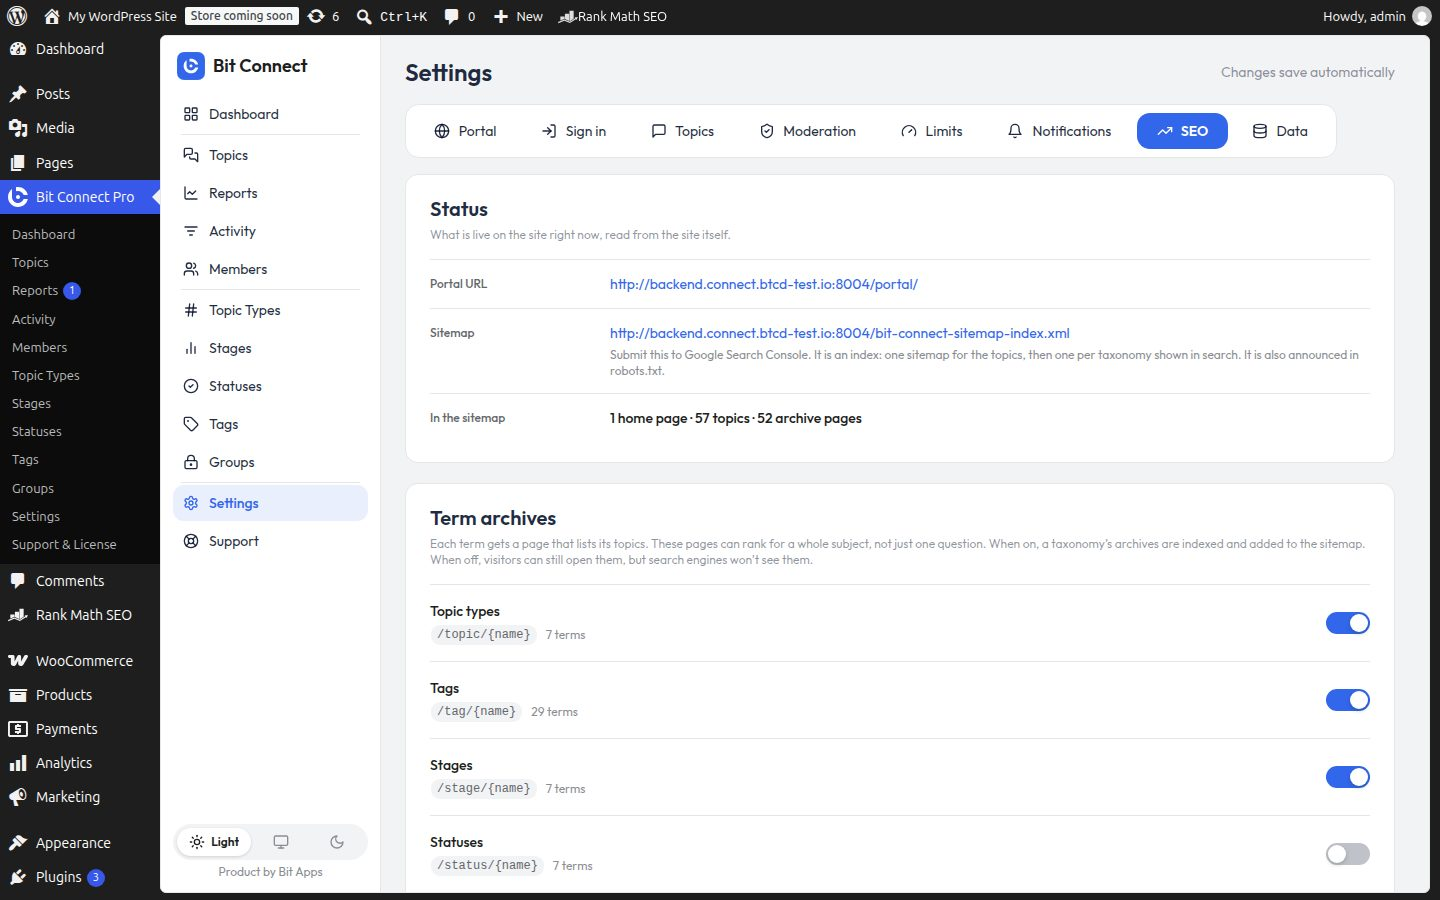
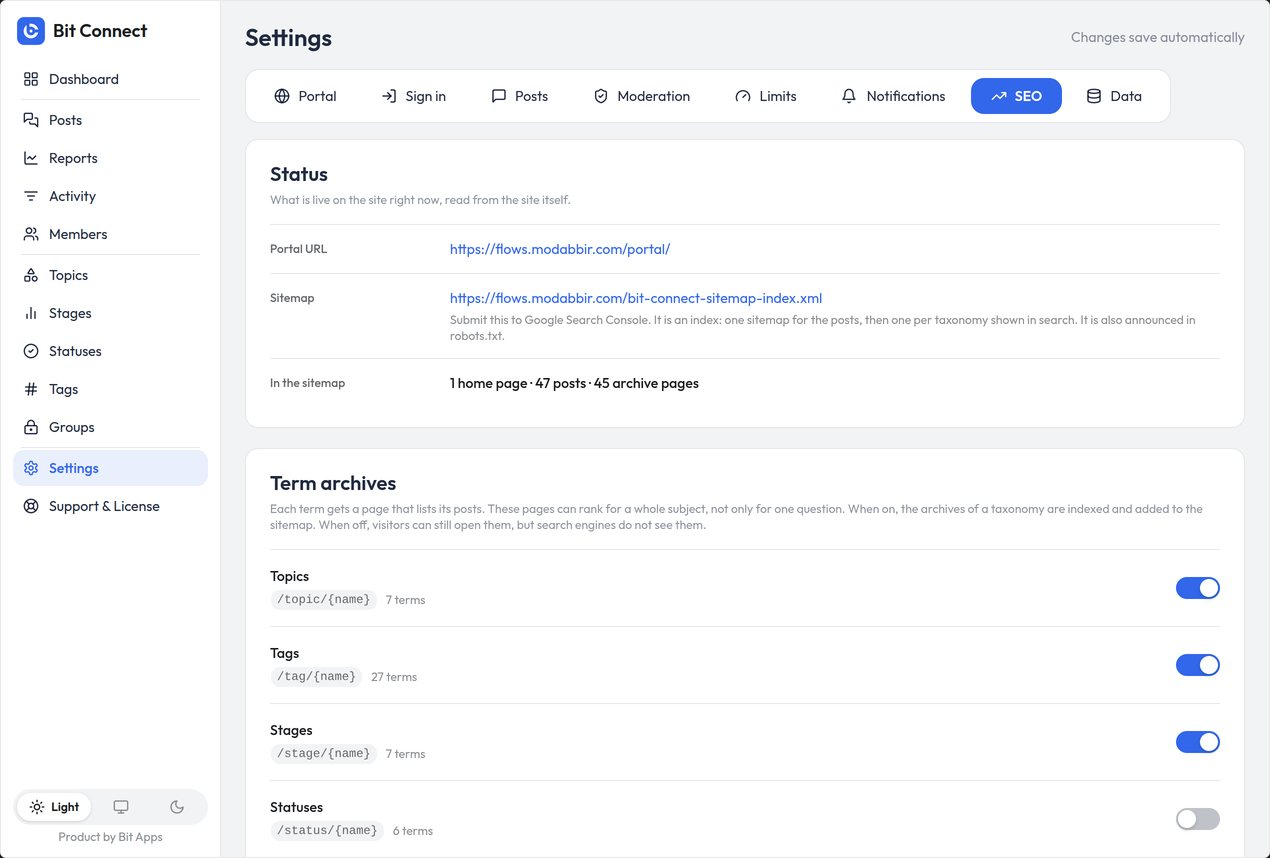
docs: update the guide to 1.0.6 and retake all 28 screenshots from the demo site

diff --git a/index.html b/index.html
@@ -209,7 +209,7 @@ footer{margin-top:72px;padding-top:20px;border-top:1px solid var(--line);color:v
       Bit Connect
     </div>
     <div class="top-right">
-      <div class="ver">Free + Pro · v1.0.2</div>
+      <div class="ver">Free + Pro · v1.0.6</div>
       <div class="theme" role="group" aria-label="Colour theme">
         <button type="button" id="th-light" data-t="light" aria-pressed="true" title="Light mode"><svg viewBox="0 0 24 24" fill="none" stroke="currentColor" stroke-width="2" stroke-linecap="round"><circle cx="12" cy="12" r="4"/><path d="M12 2v2M12 20v2M4.9 4.9l1.4 1.4M17.7 17.7l1.4 1.4M2 12h2M20 12h2M4.9 19.1l1.4-1.4M17.7 6.3l1.4-1.4"/></svg><span>Light</span></button>
         <button type="button" id="th-system" data-t="system" aria-pressed="false" title="Match my device"><svg viewBox="0 0 24 24" fill="none" stroke="currentColor" stroke-width="2" stroke-linecap="round"><rect x="3" y="4" width="18" height="12" rx="2"/><path d="M8 20h8M12 16v4"/></svg><span>Auto</span></button>
@@ -267,14 +267,14 @@ footer{margin-top:72px;padding-top:20px;border-top:1px solid var(--line);color:v
             <figcaption><b>Member profile <span class="pill free">Free</span></b><span class="d">Activity insights, top posts and a breakdown by topic.</span></figcaption></figure>
           <figure class="shot tall"><button type="button" data-full="shots/portal-mobile.jpg" aria-label="Enlarge: mobile view"><img src="shots/portal-mobile.jpg" alt="The community post list on a phone" loading="lazy"></button>
             <figcaption><b>On a phone <span class="pill free">Free</span></b><span class="d">The whole portal works on small screens.</span></figcaption></figure>
-          <figure class="shot"><button type="button" data-full="shots/portal-create-topic.jpg" aria-label="Enlarge: New post form"><img src="shots/portal-create-topic.jpg" alt="New post form with group picker, Make private checkbox, title, topic, rich text editor, Add a poll, tags and Add Files" loading="lazy"></button>
-            <figcaption><b>New post form <span class="pill pro">Pro</span></b><span class="d">Pick where to post, mark it private, add a poll, files and tags. Free shows the same form without the group picker, private switch and polls.</span></figcaption></figure>
+          <figure class="shot"><button type="button" data-full="shots/portal-create-topic.jpg" aria-label="Enlarge: New post form"><img src="shots/portal-create-topic.jpg" alt="Create New Post form with Make private checkbox, title, topic, rich text editor, Add a poll and tags" loading="lazy"></button>
+            <figcaption><b>New post form <span class="pill pro">Pro</span></b><span class="d">Mark the post private, add a poll, files and tags. A member who can post in a group also picks where to post. Free shows the same form without the private switch, polls and group picker.</span></figcaption></figure>
           <figure class="shot"><button type="button" data-full="shots/portal-tag.jpg" aria-label="Enlarge: Tag page"><img src="shots/portal-tag.jpg" alt="Automation tag page listing its posts with a Follow tag button" loading="lazy"></button>
             <figcaption><b>Tag page <span class="pill free">Free</span></b><span class="d">Every tag has its own page with a Follow tag button, topic filters and a search that looks only in that tag.</span></figcaption></figure>
           <figure class="shot"><button type="button" data-full="shots/portal-login.jpg" aria-label="Enlarge: Login page"><img src="shots/portal-login.jpg" alt="Built-in login page with illustration and sign-in form" loading="lazy"></button>
             <figcaption><b>Login page <span class="pill free">Free</span></b><span class="d">Your community name and welcome text beside the sign-in form, with Forgot password and Remember me.</span></figcaption></figure>
-          <figure class="shot"><button type="button" data-full="shots/portal-register.jpg" aria-label="Enlarge: Registration closed"><img src="shots/portal-register.jpg" alt="Registration is closed message on the sign-up page" loading="lazy"></button>
-            <figcaption><b>Registration closed <span class="pill free">Free</span></b><span class="d">What visitors see when WordPress registration is turned off. Turn on Anyone can register to open sign-ups.</span></figcaption></figure>
+          <figure class="shot"><button type="button" data-full="shots/portal-register.jpg" aria-label="Enlarge: Registration page"><img src="shots/portal-register.jpg" alt="Built-in registration form with display name, email, password and password confirmation" loading="lazy"></button>
+            <figcaption><b>Registration page <span class="pill free">Free</span></b><span class="d">The built-in sign-up form. It shows when WordPress lets visitors register. If registration is off, visitors see a message and a link to log in.</span></figcaption></figure>
         </div>
         <div class="shots" id="shots-admin" role="tabpanel" aria-labelledby="tab-admin" hidden>
           <figure class="shot feature"><button type="button" data-full="shots/admin-dashboard.jpg" aria-label="Enlarge: admin dashboard"><img src="shots/admin-dashboard.jpg" alt="Admin dashboard with counts, activity, items that need attention and response time" loading="lazy"></button>
@@ -506,7 +506,7 @@ footer{margin-top:72px;padding-top:20px;border-top:1px solid var(--line);color:v
         <h3>How a portal page loads</h3>
         <ol class="steps">
           <li><div><strong>WordPress gets the request</strong>, for example <code>/community/dark-mode-for-the-dashboard/</code>, and Bit Connect's router finds the page.</div></li>
-          <li><div><strong>PHP writes the page.</strong> The HTML holds the post text, the comments, the title and meta tags, the canonical URL and the structured data. Search engines and AI crawlers read this.</div></li>
+          <li><div><strong>PHP writes the page.</strong> The HTML holds the post text, the comments, the title and meta tags, the canonical URL and the structured data. Search engines and AI crawlers read this. The page also holds the data for the app's first requests, so the app does not wait for the server again.</div></li>
           <li><div><strong>The browser starts the app.</strong> The portal's JavaScript loads as ES modules on portal pages only. It takes over the HTML that PHP sent.</div></li>
           <li><div><strong>The app talks to the REST API.</strong> Votes, comments and filters go to <code>/wp-json/bit-connect/v1/</code>. The page changes at once, without a full reload.</div></li>
         </ol>
@@ -566,7 +566,7 @@ footer{margin-top:72px;padding-top:20px;border-top:1px solid var(--line);color:v
         <div class="grid">
           <div class="card"><span class="pill free">Free</span><h4>Import your forum</h4><p>Bring posts, comments, members and votes over from bbPress, wpForo or Discourse.</p></div>
           <div class="card"><span class="pill pro">Pro</span><h4>Reputation and leaderboard</h4><p>Points for helpful answers and upvotes received, with badges awarded along the way.</p></div>
-          <div class="card"><span class="pill pro">Pro</span><h4>Reply by email</h4><p>Answer a notification straight from your inbox, and the comment lands in the post.</p></div>
+          <div class="card"><span class="pill pro">Pro</span><h4>Comment by email</h4><p>Answer a notification straight from your inbox, and the comment lands in the post.</p></div>
           <div class="card"><span class="pill pro">Pro</span><h4>Single sign-on</h4><p>Members sign in with the account they already have elsewhere.</p></div>
         </div>
       </section>
@@ -585,7 +585,7 @@ footer{margin-top:72px;padding-top:20px;border-top:1px solid var(--line);color:v
     </main>
   </div>
 
-  <footer>Bit Connect · Free and Pro editions · Requires WordPress 6.8+ and PHP 8.2+ · Updated 19 October 2026 (version 1.0.2: topics are now called posts, and topic types are now called topics)</footer>
+  <footer>Bit Connect · Free and Pro editions · Requires WordPress 6.8+ and PHP 8.2+ · Updated 19 October 2026 for version 1.0.6</footer>
 </div>
 
 <script>
@@ -647,7 +647,7 @@ const FAQ = [
  ["Setup","Can I hide the Topic field in the post form?","You decide. Set the Topic field to Hidden, Optional or Required under Settings → Posts."],
  ["Setup","Can I turn off comments or upvotes?","Yes. Settings → Posts has a switch for each one."],
 
- ["Accounts","Why does the sign-up form say registration is closed?","Built-in sign-up follows WordPress. Turn on 'Anyone can register' under Settings → General → Membership."],
+ ["Accounts","Why does the sign-up form say registration is closed?","Built-in sign-up follows WordPress. Turn on 'Anyone can register' under Settings → General → Membership. Bit Connect's Sign in settings show whether WordPress lets visitors register."],
  ["Accounts","Which role do new members get?","Your site's default role, set under Settings → General → New User Default Role. Make sure that role has forum permissions."],
  ["Accounts","Can members log in with their existing WordPress account?","Yes. Bit Connect uses your normal WordPress users, so existing accounts work straight away."],
  ["Accounts","Can I require email verification?","Yes. Turn on 'Require email verification' under Settings → Sign in. New members confirm their address before they can sign in. This applies to the built-in sign-up form."],
@@ -668,8 +668,9 @@ const FAQ = [
  ["Posting","How do members find old posts?","With search, sorting by Newest, Oldest or My Posts, and filters by tag, topic and stage."],
  ["Posting","Can a poll have no description?","Yes, with Pro. A post with a poll can be published without body text."],
  ["Posting","Does a poll close automatically?","Yes, with Pro, if you set a closing time. The post card shows when it closes."],
+ ["Posting","Can I hide poll results until people vote?","Yes, with Pro. For each poll, show the results always, after a member votes, or when the poll closes. The last choice needs a closing time; the editor sets one week if you set none. The poll's author can always see the results."],
 
- ["Notifications","Which events send notifications?","Comments on your post, replies to your comment, new posts in things you follow, mentions, upvotes, reviewed reports, moderation of your content, and status changes. With Pro there are also new badges and being added to a group. Moderators also hear about new reports and every new post, plus join requests for private groups with Pro. People who manage the forum's settings hear about suggested tags, since they approve them."],
+ ["Notifications","Which events send notifications?","Comments on your post, comments on your comment, new posts in things you follow, mentions, upvotes, reviewed reports, moderation of your content, and status changes. With Pro there are also new badges and being added to a group. Moderators also hear about new reports and every new post, plus join requests for private groups with Pro. People who manage the forum's settings hear about suggested tags, since they approve them."],
  ["Notifications","Can members choose what they receive?","Yes. For each type you decide whether members may change it. Members then turn in-app and email on or off for each type. The in-app notice that their content was moderated cannot be switched off."],
  ["Notifications","When are summary emails sent?","Daily or weekly, at the hour you choose under Settings → Notifications. A summary email collects the notifications since the last one."],
  ["Notifications","How long are read notifications kept?","You choose a number of days, from 7 up to 3,650. Older read notifications are removed automatically."],
@@ -742,7 +743,8 @@ const FAQ = [
  ["Technical","Where does Bit Connect store its data?","In your WordPress database. Posts are a custom post type named bit-connect. Comments are WordPress comments. Stages, statuses, topics and tags are taxonomies. Votes, follows, reports, notifications and the activity log are in five tables with the bit_connect_ prefix. Uploaded files go to your uploads folder."],
  ["Technical","Does it add database tables?","Yes. The free plugin adds five tables: votes, follows, reports, notifications and the activity log. Pro adds three more: group members, comment votes and poll votes. The plugin creates them when you activate it."],
  ["Technical","Which REST API does it use?","The portal and the admin use routes under /wp-json/bit-connect/v1/. Each route checks a nonce, the user's capability and a set of validation rules. These routes are for the plugin's own app and are not documented as a public API, so they can change between versions."],
- ["Technical","Does it work with page cache plugins?","Yes. Portal pages are normal WordPress pages. The plugin's REST answers tell caches not to keep them: they send the standard no-cache header, LiteSpeed's own header and the DONOTCACHEPAGE constant. This stops a cache from showing old votes, pins or notifications."],
+ ["Technical","Does it work with page cache plugins?","Yes. Portal pages are normal WordPress pages. The plugin's REST answers tell caches not to keep them: they send the standard no-cache header, LiteSpeed's own header and the DONOTCACHEPAGE constant. This stops a cache from showing old votes, pins or notifications. With Pro, pinning or unpinning a post also clears the page cache."],
+ ["Technical","Why do comments and pins show before the server answers?","The app shows a comment, a pin or a status change at the click. If the server rejects it, the app puts the old state back and keeps the text of a comment that did not send."],
  ["Technical","Does it load scripts on every page of my site?","No. The portal's scripts and styles load only on portal pages, and the admin app loads only on the Bit Connect admin screens. The scripts load as ES modules."],
  ["Technical","Will its CSS break my theme?","No. Every Tailwind class has the bc- prefix, and the portal uses its own full-page template. If you put the shortcode on a page, your theme's header and footer show around it."],
  ["Technical","Will its PHP libraries conflict with other plugins?","No. The plugin moves its Composer libraries into its own namespace, BitApps\\BitConnect\\Deps, with Imposter. Pro uses a different namespace. Two plugins that use different versions of the same library can run together."],
